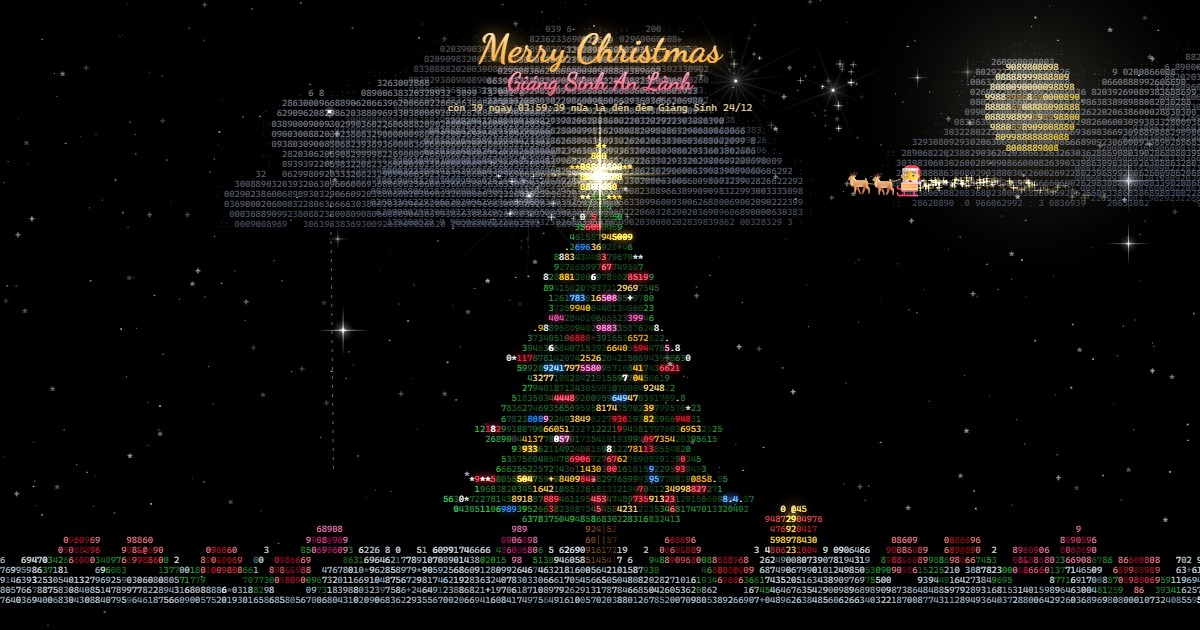
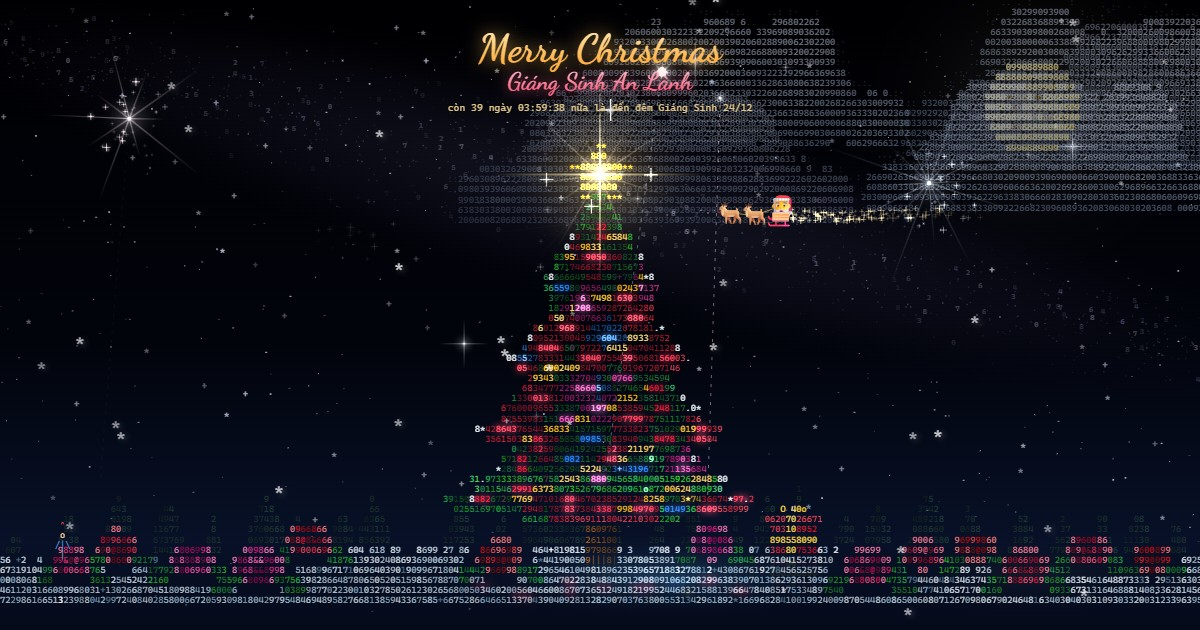
Làm đẹp: đèn hắt lá, ánh trăng, mây che trăng, pháo loé tuyết, tuyết 3 lớp, rặng thông xa, trời và Ngân Hà, phản chiếu trên tuyết, khung góc, cây thở

diff --git a/index.html b/index.html
@@ -39,13 +39,21 @@ html,body{height:100%;margin:0;background:var(--bg);color:var(--fg);overflow:hid
 #bar .run{color:var(--amber)}
 #hint{top:calc(10px + env(safe-area-inset-top,0px));left:max(16px,env(safe-area-inset-left,0px));color:#3d4555}
 @media (max-width:820px){#hint{display:none}#info{display:none}}
+/* bốn góc khung kiểu cửa sổ terminal */
+.corner{position:fixed;width:18px;height:18px;border:0 solid #2b3445;pointer-events:none}
+#k1{top:calc(4px + env(safe-area-inset-top,0px));left:max(4px,env(safe-area-inset-left,0px));border-top-width:1px;border-left-width:1px}
+#k2{top:calc(4px + env(safe-area-inset-top,0px));right:max(4px,env(safe-area-inset-right,0px));border-top-width:1px;border-right-width:1px}
+#k3{bottom:calc(34px + env(safe-area-inset-bottom,0px));left:max(4px,env(safe-area-inset-left,0px));border-bottom-width:1px;border-left-width:1px}
+#k4{bottom:calc(34px + env(safe-area-inset-bottom,0px));right:max(4px,env(safe-area-inset-right,0px));border-bottom-width:1px;border-right-width:1px}
+#hint::before{content:"› ";color:#56607a}
 /* lúc mới vào cả trang tối, chữ góc màn hình hiện sau */
-.hud{animation:hudIn 1.5s ease 1.5s both}
+.hud,.corner{animation:hudIn 1.5s ease 1.5s both}
 @keyframes hudIn{from{opacity:0}}
-@media (prefers-reduced-motion:reduce){.hud{animation:none}}
+@media (prefers-reduced-motion:reduce){.hud,.corner{animation:none}}
 </style>
 
 <canvas id="c" aria-label="Cây thông Noel và hoa hồng dựng từ chữ số, pháo hoa trên bầu trời đêm"></canvas>
+<div class="corner" id="k1"></div><div class="corner" id="k2"></div><div class="corner" id="k3"></div><div class="corner" id="k4"></div>
 <div class="hud" id="hint">bấm trời: pháo hoa · chạm cây, hộp quà, sao băng, ông già Noel · rê chuột: gió · R: dựng lại</div>
 <div class="hud" id="timer">t 00.00s</div>
 <div class="hud" id="info">
@@ -91,6 +99,14 @@ glow.moon=makeGlow('rgba(255,236,190,1)');
 let clouds=[];
 let gridMap=new Map(),ledges=[],paper=null,meteor=null,nextMeteor=0,wish=null,shake=-9,lightMode=0,bits=[],tNow=0;
 let wind=0,lastPtr=null,lastShake=-9,motionAsked=false,modeNow=null;
+let skyBg=null,milky=null,moonDim=1,refl=[];
+// đèn trên cây có đang sáng không (dùng để hắt màu đèn xuống lá xung quanh)
+function lightOn(s,t){
+  if(s.type==='orn')return Math.sin(t*2.2+s.tw)>-.3;
+  if(lightMode===2)return true;
+  if(lightMode===1)return Math.sin(t*7-s.y*.06)>.3;
+  return Math.sin(t*3+s.tw)>.1;
+}
 // mây dựng từ chữ số: hợp của vài khối tròn, lõi là số, mép là dấu chấm
 function makeCloud(w,h){
   const blobs=[],n=Math.round(rnd(5,7));
@@ -112,7 +128,8 @@ function makeCloud(w,h){
     if(best<=0||y>h*.86)continue;
     if(best<.25&&Math.random()<.45)continue;
     const top=1-y/h,edge=best<.18;
-    cells.push({x,y,ch:edge?pick('.:·'):pick('0689023'),l:edge?44:clamp(40+top*42+best*12,40,88),edge});
+    // mặt trên và phía phải (hướng trăng) sáng hơn
+    cells.push({x,y,ch:edge?pick('.:·'):pick('0689023'),l:edge?44:clamp(38+top*40+best*12+(x/w-.5)*14,36,90),edge});
   }
   return cells;
 }
@@ -121,8 +138,9 @@ function drawMoon(t){
   // trăng hiện dần và nhô lên nhẹ
   const k=clamp((t-T.moon)/3,0,1);if(k<=0)return;
   const my=m.y+(1-easeOut(k))*m.R*1.5;
+  // moonDim < 1 khi có mây trôi ngang qua trăng
   ctx.globalCompositeOperation='lighter';
-  ctx.globalAlpha=(.4+.05*Math.sin(t*.8))*k;
+  ctx.globalAlpha=(.4+.05*Math.sin(t*.8))*k*moonDim;
   ctx.drawImage(glow.moon,m.x-m.R*4,my-m.R*4,m.R*8,m.R*8);
   ctx.globalCompositeOperation='source-over';
   let cur='';
@@ -130,7 +148,7 @@ function drawMoon(t){
     if(Math.random()<.003)c.ch=pick(c.dark?'0689':'8890');
     const col=`hsl(${c.dark?42:48},${c.dark?40:85}%,${c.l}%)`;
     if(col!==cur){ctx.fillStyle=col;cur=col}
-    ctx.globalAlpha=k;ctx.fillText(c.ch,m.x+c.x,my+c.y);
+    ctx.globalAlpha=k*(.45+.55*moonDim);ctx.fillText(c.ch,m.x+c.x,my+c.y);
   }
 }
 function buildMoonCells(m){
@@ -191,6 +209,8 @@ function buildScene(){
   g.sx=g.cx;g.sy=g.treeTop-g.SR*0.25;
   g.groundY=H*0.875;
   g.bottom=H-30;
+  const MR=clamp(Math.min(W,H)*0.075,32,88);
+  g.moonX=W-Math.max(MR*1.8,W*0.14);
 
   const map=new Map(),under=[];
   // ô bị thứ khác đè lên (tuyết dưới cây, lá dưới hộp quà...) vẫn được giữ lại
@@ -208,9 +228,23 @@ function buildScene(){
     if(y<gt||y>g.bottom)continue;
     const depth=(y-gt)/(g.bottom-gt);
     if(y-gt<ch*1.2&&Math.random()<0.18)continue; // mép tuyết hơi lởm chởm
-    const L=rnd(72,92)-depth*14, sp=Math.random()<0.04;
+    // vệt sáng của trăng in trên tuyết
+    const L=rnd(70,90)-depth*14+8*Math.exp(-(((x-g.moonX)/(W*.12))**2)), sp=Math.random()<0.04;
     put(c,r,{type:sp?'snowsp':'snow',ch:pick(sp?'*+':'08690860'),h:205,s:rnd(10,35),l:L,
       delay:T.snow+(1-depth)*1.2+rnd(0,.2),tw:rnd(0,7)});
+  }
+  // rặng thông xa ở chân trời, màu xanh tối, phía sau mọi thứ
+  for(let px=rnd(0,W/30);px<W;px+=rnd(W/40,W/22)){
+    const gt=groundTop(px),h=ch*rnd(2.5,6.5)*(W<600?.8:1);
+    for(let r=Math.floor((gt-h)/ch);r<=Math.floor(gt/ch);r++)for(let c=Math.floor((px-h*.45)/cw);c<=Math.ceil((px+h*.45)/cw);c++){
+      if(r<0||c<0||c>=cols)continue;
+      const x=(c+.5)*cw,y=(r+.5)*ch;
+      if(y>=groundTop(x))continue;
+      const k=(y-(gt-h))/h;if(k<0)continue;
+      if(Math.abs(x-px)>h*.38*k*(1+.12*Math.sin(y*.5)))continue;
+      if(map.has(r*cols+c))continue;
+      put(c,r,{type:'ridge',ch:pick(DIG),h:rnd(150,175),s:30,l:rnd(10,16)+(x>px?4:0),delay:T.snow+1.2+rnd(0,.9)});
+    }
   }
   // thân cây
   const tw=g.TH*0.05;
@@ -250,8 +284,10 @@ function buildScene(){
       }else if(Math.random()<0.035&&!edge){
         o={type:'light',ch:pick('*+o'),g:pick(['gold','white','blue','pink','green']),h:0,s:0,l:0,tw:rnd(0,7),delay};
       }else{
-        const shade=-dx/g.HW*7+(1-u)*-4;
+        // ánh trăng chiếu từ phía phải: nửa phải sáng hơn, mép phải được viền sáng
+        const shade=dx/g.HW*7+(1-u)*-4;
         o={type:'tree',ch:pick(DIG),h:rnd(118,148),s:rnd(55,75),l:clamp((edge?40:24)+shade+rnd(-6,6),12,52),delay};
+        if(edge&&dx>0&&!inTree(x+cw*1.2,y))o.moonEdge=1;
       }
     }
     // đèn, trang trí và dây kim tuyến: lúc đầu là lá xanh, sau đó mới sáng lên từ dưới lên
@@ -385,7 +421,30 @@ function buildScene(){
     o.end=o.delay+o.dur;
     o.col=`hsl(${o.h|0},${o.s|0}%,${o.l|0}%)`;
     if(o.rose)o.rose.end=Math.max(o.rose.end,o.end);
+    if(o.type==='tree'){
+      o.wcol=`hsl(${o.h|0},${o.s|0}%,${Math.min(72,o.l+20)|0}%)`;           // màu khi sóng sáng chạy qua
+      if(o.moonEdge)o.mcol=`hsl(${(o.h+25)|0},38%,${Math.min(68,o.l+18)|0}%)`; // viền ánh trăng
+    }
   }
+  // đèn và quả châu hắt màu xuống các ô lá xung quanh
+  const tintHue={red:352,gold:45,blue:212,pink:325,green:140,white:50};
+  for(const s of cells){
+    if(s.type!=='light'&&s.type!=='orn')continue;
+    const hue=tintHue[s.g]??45;
+    for(let dr=-2;dr<=2;dr++)for(let dc=-3;dc<=3;dc++){
+      const o=map.get((s.r+dr)*cols+s.c+dc);if(!o||o.type!=='tree')continue;
+      const d=Math.hypot(dc*cw,dr*ch)/ch;if(d>2.3)continue;
+      if(o.tint&&o.tint.d<=d)continue;
+      o.tint={src:s,d,col:`hsl(${hue},${s.type==='orn'?75:65}%,${clamp(o.l+18-d*4,30,62)|0}%)`};
+    }
+  }
+  // những thứ in bóng xuống mặt tuyết bóng loáng
+  refl=cells.filter(o=>{
+    if(o.type==='gift'||o.type==='bow'){o.mb=g.gift.y1-ch*.15;return true}
+    if(o.type==='snowman'){o.mb=g.snowman.bottom-ch*.1;return true}
+    if(o.type==='trunk'){o.mb=groundTop(g.cx)+ch*1.3;return true}
+    return false;
+  });
   // mép trên các tầng lá: chỗ tuyết rơi xuống sẽ đọng lại
   gridMap=map;ledges=[];
   const TT={tree:1,garland:1,orn:1,light:1,star:1};
@@ -417,8 +476,32 @@ function buildSky(){
     const w=rnd(.3,.42)*Math.max(W,700),h=Math.max(ch*9,w*rnd(.5,.58));
     clouds.push({cells:makeCloud(w,h),x:rnd(-w*.3,W-w*.7),y:rnd(.08,.3)*H-h/2,w,h,v:rnd(5,13),a:rnd(.4,.65),in:rnd(4,6.5)});
   }
+  // tuyết rơi 3 lớp: xa (nhỏ, mờ, chậm), giữa, gần (to, nhanh, có quầng nhoè)
   flakes=[];
-  for(let i=0;i<Math.round(W/10);i++)flakes.push({x:rnd(0,W),y:rnd(-H,H),v:rnd(14,40),sw:rnd(.5,1.5),ph:rnd(0,7),ch:pick('*..·+'),a:rnd(.25,.7)});
+  const add=(n,L)=>{for(let i=0;i<n;i++)flakes.push({x:rnd(0,W),y:rnd(-H,H),L,
+    v:L===0?rnd(8,18):L===1?rnd(14,40):rnd(55,90),sw:rnd(.5,1.5),ph:rnd(0,7),
+    ch:L===0?pick('.·'):L===1?pick('*..·+'):'*',a:L===0?rnd(.15,.35):L===1?rnd(.25,.7):rnd(.45,.8)})};
+  add(Math.round(W/9),0);add(Math.round(W/10),1);add(Math.round(W/45),2);
+  flakes.sort((a,b)=>a.L-b.L);
+  // nền trời: đen ở đỉnh, ngả xanh than rất nhẹ về chân trời
+  skyBg=ctx.createLinearGradient(0,0,0,H);
+  skyBg.addColorStop(0,'#000002');skyBg.addColorStop(.55,'#02040c');skyBg.addColorStop(.86,'#081128');skyBg.addColorStop(1,'#050a1a');
+  // dải Ngân Hà bằng chấm và chữ số li ti, vẽ sẵn một lần
+  milky=document.createElement('canvas');milky.width=Math.round(W*dpr);milky.height=Math.round(H*dpr);
+  const m=milky.getContext('2d');m.setTransform(dpr,0,0,dpr,0,0);
+  const ax=-W*.05,ay=H*.04,bx=W*1.05,by=H*.58,len=Math.hypot(bx-ax,by-ay),ux=(bx-ax)/len,uy=(by-ay)/len,nx=-uy,ny=ux;
+  m.save();m.translate((ax+bx)/2,(ay+by)/2);m.rotate(Math.atan2(uy,ux));m.scale(1,.15);
+  const gr=m.createRadialGradient(0,0,0,0,0,len*.55);
+  gr.addColorStop(0,'rgba(150,160,225,.11)');gr.addColorStop(.6,'rgba(115,100,185,.05)');gr.addColorStop(1,'rgba(0,0,0,0)');
+  m.fillStyle=gr;m.beginPath();m.arc(0,0,len*.55,0,TAU);m.fill();m.restore();
+  m.font=`${Math.max(7,Math.round(fs*.6))}px ${FONT}`;
+  for(let i=0,n=Math.round(W*H/650);i<n;i++){
+    const s=Math.random()*len,off=(Math.random()+Math.random()+Math.random()-1.5)*H*.09*(.6+.6*Math.sin(s/len*Math.PI));
+    const x=ax+ux*s+nx*off,y=ay+uy*s+ny*off,a=rnd(.08,.38)*(1-Math.abs(off)/(H*.16));
+    if(a<=0)continue;
+    m.globalAlpha=a;m.fillStyle=Math.random()<.3?'#c9b8ff':'#dfe6ff';
+    if(Math.random()<.16)m.fillText(pick(DIG),x,y);else{const z=Math.random()<.2?1.3:.8;m.fillRect(x,y,z,z)}
+  }
 }
 
 function setup(){
@@ -586,6 +669,12 @@ function frame(now){
   const t=(now-start)/1000;tNow=t;
   ctx.globalCompositeOperation='source-over';
   ctx.fillStyle='#000';ctx.fillRect(0,0,W,H);
+  // trời ngả xanh than và Ngân Hà hiện dần cùng các vì sao
+  const sk=clamp((t-T.stars)/4,0,1);
+  if(sk>0){
+    ctx.globalAlpha=sk;ctx.fillStyle=skyBg;ctx.fillRect(0,0,W,H);
+    ctx.drawImage(milky,0,0,W,H);ctx.globalAlpha=1;
+  }
   ctx.textBaseline='alphabetic';
   ctx.font=`${fs}px ${FONT}`;
 
@@ -621,6 +710,7 @@ function frame(now){
     const k=reduce?1:clamp((t-T.clouds)/c.in,0,1),e=easeOut(k);
     if(k<=0)continue;
     const cx=c.x-(1-e)*(c.x+c.w+40);
+    c.cxNow=cx;c.kNow=k;
     let cur='';
     for(const q of c.cells){
       if(Math.random()<.002&&!q.edge)q.ch=pick('0689023');
@@ -630,6 +720,16 @@ function frame(now){
     }
   }
   ctx.globalAlpha=1;
+  // mây che trăng: trăng và ánh trăng trên cảnh tối đi
+  {
+    const m=geo.moon;let cov=0;
+    if(m)for(const c of clouds){
+      if(!c.kNow)continue;
+      const ix=(m.x-c.cxNow)/c.w,iy=(m.y-c.y)/c.h;
+      if(ix>.05&&ix<.95&&iy>.15&&iy<.9)cov=Math.max(cov,clamp(Math.min(ix-.05,.95-ix,iy-.15,.9-iy)*6,0,1)*c.a*1.5*Math.min(1,c.kNow*2));
+    }
+    moonDim+=((1-.6*clamp(cov,0,1))-moonDim)*Math.min(1,dt*3);
+  }
 
   // sao băng: bấm trúng là gửi điều ước
   if(!meteor&&t>nextMeteor&&!reduce){
@@ -752,7 +852,7 @@ function frame(now){
     if(p<1){
       const e=easeOut(p);x=o.sx0+(o.x-o.sx0)*e;y=o.sy0+(o.y-o.sy0)*e;
       c=pick(DIG);a=0.35+0.65*p;
-    }else if(Math.random()<0.0015&&o.type!=='star'&&o.type!=='rose'&&o.type!=='snowman'){o.ch=c=pick(DIG)}
+    }else if(Math.random()<0.0015&&o.type!=='star'&&o.type!=='rose'&&o.type!=='snowman'&&o.type!=='tree'){o.ch=c=pick(DIG)}
     // cây rung khi được chạm: ngọn rung mạnh hơn gốc; gió làm cây nghiêng theo
     if(o.u!==undefined){
       if(t-shake<1.6){const e=t-shake;x+=Math.sin(e*30)*cw*.8*Math.exp(-e*3)*(1-o.u*.7)}
@@ -785,6 +885,13 @@ function frame(now){
         const wave=Math.pow(Math.max(0,Math.sin(t*2.2-(o.x-geo.sx)/geo.SR*1.6-(o.y-geo.sy)/geo.SR)),4);
         col=`hsl(${46+k*6|0},100%,${Math.min(97,o.l-4+k*12+wave*30)|0}%)`;break}
     }
+    if(o.type==='tree'&&p>=1){
+      // cây "thở": một làn sáng chạy từ gốc lên ngọn, chữ số đổi theo làn sóng
+      const wv=((t*.28-(1-o.u))%1+1)%1;
+      if(wv<.035){col=o.wcol;if(Math.random()<.25)o.ch=c=pick(DIG)}
+      else if(o.tint&&t>o.tint.src.lightAt&&lightOn(o.tint.src,t))col=o.tint.col; // đèn hắt màu xuống lá
+      else if(o.moonEdge&&moonDim>.65)col=o.mcol;                                  // viền ánh trăng
+    }
     if(o.cap&&p>=1){col='hsl(205,35%,93%)';c=o.capCh} // tuyết đọng trên cành
     if(col!==curCol){ctx.fillStyle=col;curCol=col}
     ctx.globalAlpha=a;
@@ -801,6 +908,32 @@ function frame(now){
     ctx.globalAlpha=Math.min(1,(b.life-b.age)/.6);ctx.fillStyle=b.col;ctx.fillText(b.ch,b.x,b.y);
   }
   curCol='';
+  // mặt tuyết: bóng phản chiếu, ánh trăng, ánh pháo hoa và ánh đèn
+  {
+    const g=geo,gy=(g.groundY+g.bottom)/2,gh=g.bottom-g.groundY;
+    for(const o of refl){
+      if(t<o.end||(o.hideAt!==undefined&&t>o.hideAt))continue;
+      if(o.lid&&g.gift.open)continue;
+      const my=2*o.mb-o.y+ch*.55;if(my>g.bottom||my<o.mb)continue;
+      ctx.globalAlpha=.16*(1-(my-o.mb)/(ch*4.5));if(ctx.globalAlpha<=0)continue;
+      ctx.fillStyle=o.col;ctx.fillText(o.ch,o.x,my);
+    }
+    ctx.globalCompositeOperation='lighter';
+    const ell=(x,rx,col,a)=>{
+      ctx.save();ctx.translate(x,gy);ctx.scale(1,gh*.9/rx);
+      const gr=ctx.createRadialGradient(0,0,0,0,0,rx);gr.addColorStop(0,col);gr.addColorStop(1,'rgba(0,0,0,0)');
+      ctx.globalAlpha=a;ctx.fillStyle=gr;ctx.beginPath();ctx.arc(0,0,rx,0,TAU);ctx.fill();ctx.restore();
+    };
+    const mk=clamp((t-T.moon)/3,0,1)*clamp((t-T.snow)/2,0,1);
+    if(mk>0)ell(g.moonX,W*.13,'rgba(255,242,205,1)',.09*mk*moonDim);
+    for(const b of bursts)if(b.age<.8)ell(b.x,W*.17,`hsl(${b.hue},${Math.min(100,b.sat+30)|0}%,70%)`,.2*(1-b.age/.8));
+    // đèn sáng in bóng mờ xuống tuyết
+    for(const q of glows){
+      const my=2*groundTop(q[1])-q[2];
+      if(my<g.bottom&&my>g.groundY){ctx.globalAlpha=q[4]*.35;const R=q[3]*1.3;ctx.drawImage(glow[q[0]],q[1]-R/2,my-R/2,R,R)}
+    }
+    ctx.globalCompositeOperation='source-over';
+  }
   for(const r of roses)if(t>r.end)rosesOpen++;
   drawSanta();ctx.textAlign='left';
   // người nhỏ: đi tới, đắp người tuyết, vẫy tay rồi đi về
@@ -866,18 +999,22 @@ function frame(now){
   // tuyết rơi
   if(t>T.snow){
     ctx.fillStyle='#fff';
+    let curL=-1;
     for(const f of flakes){
-      if(!reduce){f.y+=f.v*dt;f.x+=Math.sin(t*f.sw+f.ph)*10*dt+wind*.4*dt}
+      if(f.L!==curL){curL=f.L;ctx.font=`${curL===2?Math.round(fs*1.7):curL===0?Math.max(7,Math.round(fs*.75)):fs}px ${FONT}`}
+      if(!reduce){f.y+=f.v*dt;f.x+=Math.sin(t*f.sw+f.ph)*(10+f.L*8)*dt+wind*(.2+f.L*.25)*dt}
       if(f.y>H){f.y=-10;f.x=rnd(0,W)}
       if(f.x<-12)f.x=W+10;else if(f.x>W+12)f.x=-10;
-      // bông tuyết chạm mép cành thì đọng lại
-      if(t>T.lights){
+      if(f.L===2){ctx.globalAlpha=f.a*.22*Math.min(1,(t-T.snow)/2);ctx.drawImage(glow.white,f.x-fs*.3,f.y-fs*1.5,fs*2.2,fs*2.2)}
+      // bông tuyết lớp giữa chạm mép cành thì đọng lại
+      if(t>T.lights&&f.L===1){
         const c=Math.floor(f.x/cw),r=Math.round(f.y/ch-.82);let hit=null;
         for(const dr of[0,1]){const o=gridMap.get((r+dr)*cols+c);if(o&&o.ledge&&!o.cap){hit=o;break}}
         if(hit){hit.cap=true;hit.capCh=pick('08*.');f.y=-10;f.x=rnd(0,W);continue}
       }
       ctx.globalAlpha=f.a*Math.min(1,(t-T.snow)/2);ctx.fillText(f.ch,f.x,f.y);
     }
+    ctx.font=`${fs}px ${FONT}`;
     // càng xem lâu cây càng phủ tuyết
     if(t>T.lights+2&&ledges.length&&!reduce&&Math.random()<dt*1.5){const o=pick(ledges);o.cap=true;o.capCh=pick('08*.')}
   }
